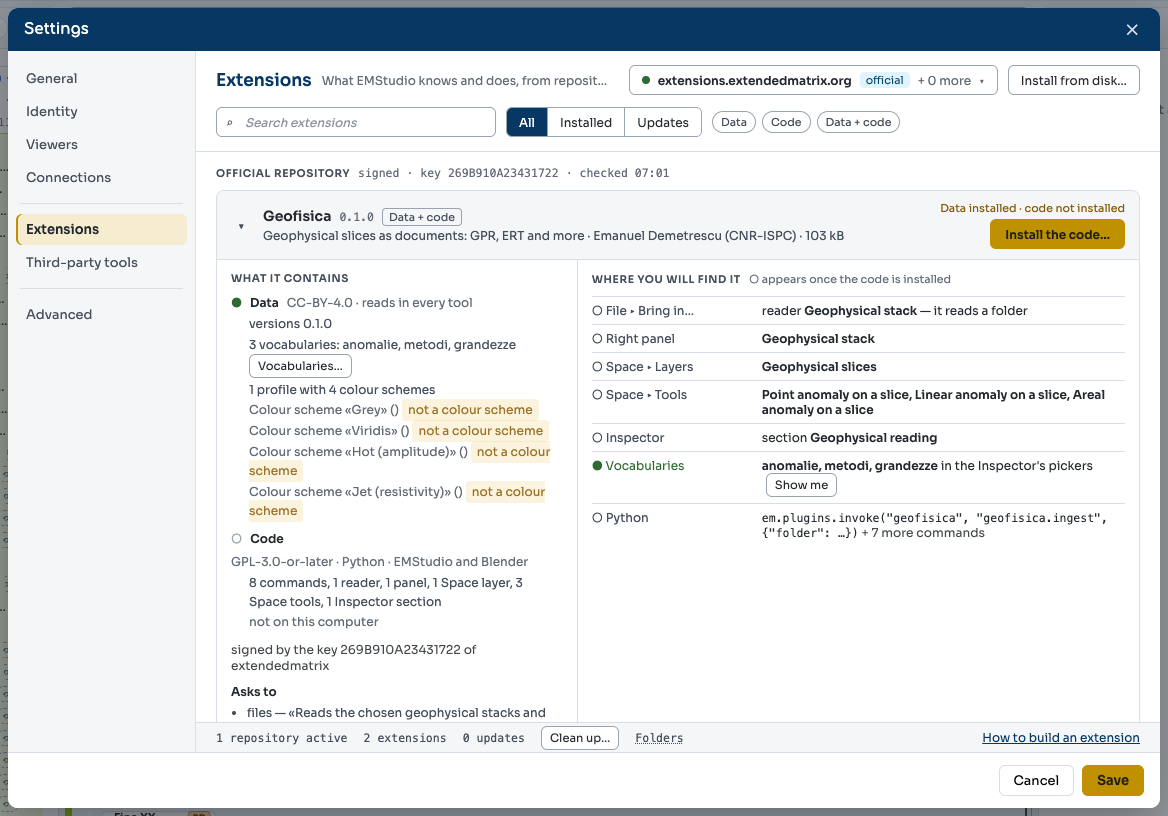
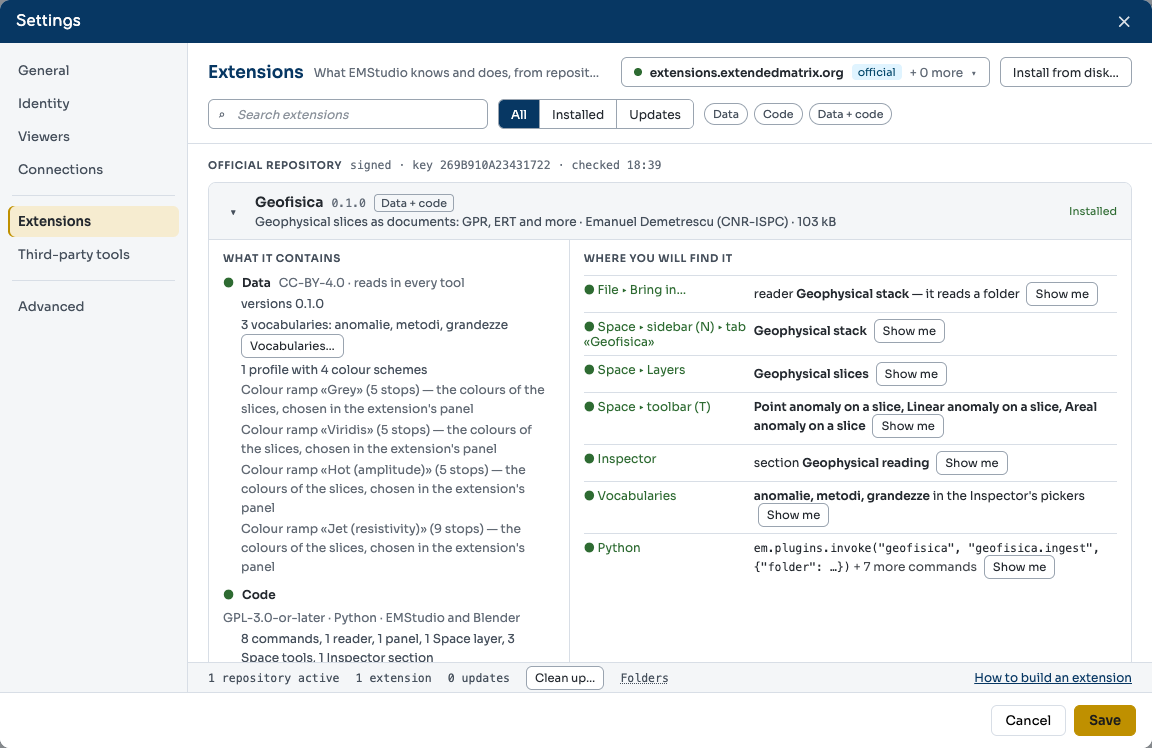
Extensions: Show me — where each line of «Where you will find it» leads (a table: File menu, the Space's sidebar tab, the layer's Outliner row, the toolbar, a node for the Inspector section, Link to a vocabulary, the Scripting console), the accent ring and reduced motion; a profile's colour schemes 

Changed region(s): [[0.0, 0.0, 1.0, 1.0], [0.5, 0.7072, 0.5625, 0.738]]

diff --git a/docs/how-to/extensions/install-packages-and-plugins.rst b/docs/how-to/extensions/install-packages-and-plugins.rst
@@ -55,7 +55,7 @@ Read the page
 -------------
 
 .. image:: /_static/screens/settings/extensions.png
-   :alt: Settings, the Extensions page: the official repository in the selector, the filters, and the row of Geofisica opened, its data installed and its code not, with What it contains and Where you will find it.
+   :alt: Settings, the Extensions page: the official repository in the selector, the filters, and the row of Geofisica opened, installed from the official repository: What it contains lists its four colour ramps with their stops, Where you will find it has Show me on every line.
 
 The head of the page gives the title, the **selector of the repositories** and
 **Install from disk…**. The selector shows the address of the repository in use,
@@ -109,16 +109,29 @@ The left half of an opened row says what the extension carries, part by part.
 
 - **Data**: its licence, **reads in every tool**, its versions, the
   vocabularies by name with **Vocabularies…** to open them (see
-  :doc:`vocabularies`), the profile and its colour schemes, each with
-  **Into the file**, which copies it into the open study, where the **Colours**
-  window lists it under *In the file* (see
-  :doc:`/how-to/space/colours-and-legend`), and the recording sheets, offered in
-  the **Sheets** workspace when they are verified (see
-  :doc:`/how-to/sheets/fill-the-recording-sheet`).
+  :doc:`vocabularies`), the profile and its colour schemes, and the recording
+  sheets, offered in the **Sheets** workspace when they are verified (see
+  :doc:`/how-to/sheets/fill-the-recording-sheet`). A profile's colours are of
+  two kinds:
+
+  - a **colour scheme** of a property (*Colour scheme «…» (material)*): a colour
+    for each value, with **Into the file**, which copies it into the open study,
+    where the **Colours** window lists it under *In the file* (see
+    :doc:`/how-to/space/colours-and-legend`);
+  - a **colour ramp** (*Colour ramp «Viridis» (5 stops)*): colours along a range
+    of values, the colours of a plugin's slices. Geofisica brings four, *Grey*,
+    *Viridis*, *Hot (amplitude)* and *Jet (resistivity)*; you choose one in the
+    extension's panel (**Colours**), not in the study's colour schemes.
 - **Code**: its licence, Python, the programs it runs in (EMStudio, Blender),
   what it brings counted (for example *8 commands, 1 reader, 1 panel, 1 Space
-  layer, 3 Space tools, 1 Inspector section*), whether it is verified, whether it
-  is on this computer and enabled, and the key that signed it.
+  layer, 3 Space tools, 1 Inspector section*), its versions, whether it is
+  verified, whether it is enabled, and the key that signed it. Verified has two
+  steps: the **signature** (these are the bytes its repository published) and a
+  **review** (someone named has read this code). A code with both is marked
+  **reviewed by … on …**; a code signed and not yet reviewed says so with the
+  step that is missing, *from extendedmatrix, signed ✓ · one step missing: a
+  review of its code*; a code from disk, or from an unsigned repository, says
+  **not verified** (see :doc:`repositories-signatures-updates`).
 - **Asks to**: each permission, with the reason the plugin gives.
 
 A ● marks a part on this computer, a ○ a part that is not.
@@ -144,11 +157,35 @@ The places are known before the code is installed: they are read from what the
 package declares, in the preview of an archive or in the archive it came from,
 and nothing is written to read them.
 
-**Show me**, on each line marked ●, closes the Settings and goes there: the
-**File** menu opens with **Bring in…** lit; the panel opens; the Space shows
-**Visibility** with the plugin's layers; the tool is lit in the Space's bar; the
-Inspector comes forward with a note on what to select; the **Vocabularies**
-window opens; the console opens with the line written, not run.
+**Show me**, on each line marked ●, closes the Settings, brings the right
+workspace to the front and opens the place, lit for a moment by a ring in the
+accent colour (a still ring when the system asks for reduced motion):
+
+.. list-table::
+   :header-rows: 1
+   :widths: 30 70
+
+   * - Line
+     - Show me
+   * - **File ▸ Bring in…**, **Import**, **Export**
+     - the **File** menu opens with the entry lit.
+   * - **Space ▸ sidebar (N) ▸ tab «…»**
+     - the **Space**, its sidebar on the extension's tab, the panel lit.
+   * - **Space ▸ Layers**
+     - the same tab, the panel and the layer's row in the Space's Outliner lit
+       (once the study has a stack of its kind).
+   * - **Space ▸ toolbar (T)**
+     - the toolbar shown, the extension's tools lit.
+   * - **Inspector**
+     - a node the section reads is selected (the one selected, else one the
+       extension made) and the Inspector scrolls to the section. With no such
+       node in the study, one line says which kind of node it needs.
+   * - **Vocabularies**
+     - a property whose values they give is selected and **Link to a
+       vocabulary** opens with their terms. With no such property, the
+       **Vocabularies** window opens and one line says why.
+   * - **Python**
+     - the **Scripting** workspace, its console with the line written, not run.
 
 At the foot
 ~~~~~~~~~~~

diff --git a/docs/how-to/extensions/repositories-signatures-updates.rst b/docs/how-to/extensions/repositories-signatures-updates.rst
@@ -128,6 +128,13 @@ that anyone read the code. EMStudio shows the two things apart.
   repository published, unchanged on the way.
 - **reviewed by … on …** names the person who read the code, in the list of a
   repository whose reviews you trust.
+- A code that is signed and that nobody has reviewed yet says both, and which
+  step is missing: *from extendedmatrix, signed ✓ · one step missing: a review
+  of its code (none in extendedmatrix's list of the reviewed)*. Until a review
+  is listed, its code runs on the trust you gave when you installed it.
+
+.. image:: /_static/screens/settings/extensions-signed.png
+   :alt: The Code part of Geofisica, installed from the official repository: versions 0.1.0, from extendedmatrix, signed, one step missing: a review of its code; under it, signed by the key 269B910A23431722 of extendedmatrix.
 
 To sign a repository after adding it, press **Edit** on its line in the panel
 **Repositories**, then **Signing key…**, and paste its public keys, one per
